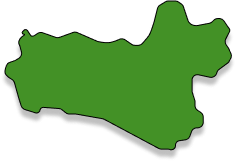
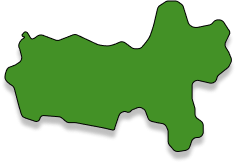
style(changing jawa tengah illustration): change jawa tengah province illustration

Changed region(s): [[0.0, 0.0309, 1.0, 0.9877], [0.6822, 0.0, 0.7119, 0.0309]]

diff --git a/src/components/provinces/JawaTengah.jsx b/src/components/provinces/JawaTengah.jsx
@@ -2,25 +2,16 @@ import React from "react";
 
 const JawaTengah = () => {
   return (
-    <svg
-      xmlns="http://www.w3.org/2000/svg"
-      viewBox="0 0 114 76"
-      fill="none"
-      className="lg:province-hover w-[114px] h-[76px]"
-    >
-      <path
-        d="M10.4151 15.2658L9.7073 15.9736C9.26102 16.4199 9.5771 17.1829 10.2082 17.1829C10.5995 17.1829 10.7907 17.479 10.475 17.7102C10.0995 17.9852 9.56791 18.2898 9.22356 18.6342C8.64308 19.2146 8.49795 19.4404 8.25608 19.8435L7.96799 20.5157C7.69323 21.1568 7.74305 21.8909 8.10191 22.489C8.20421 22.6595 8.28261 22.8432 8.33493 23.035L8.72274 24.457C9.30501 26.592 8.39624 28.8537 6.49865 29.9923C6.21974 30.1596 5.92497 30.299 5.61865 30.4084L3.54845 31.1478C2.98145 31.3503 2.42636 31.6282 2.09668 32.132C1.38705 33.2164 0.84735 35.0696 0.999985 36.2907C1.10584 37.1375 1.98873 38.023 2.99118 38.757C4.40075 39.7891 5.62255 41.1287 6.09013 42.8119L7.77234 48.8679L8.60135 51.4734C9.14304 53.1758 10.4798 54.5078 12.1842 55.0435L16.0882 56.2705C17.0768 56.5812 18.1185 55.9742 18.3356 54.961C18.5195 54.1025 19.3083 53.5111 20.1839 53.5752L26.7452 54.0553C27.9367 54.1425 29.075 54.5833 30.0143 55.3214L30.3276 55.5675C31.3847 56.3981 32.6901 56.8496 34.0345 56.8496H35.5488C35.8964 56.8496 36.2433 56.8798 36.5856 56.9399L48.9126 59.1025C49.5387 59.2123 50.1434 59.421 50.704 59.7206L76.5892 73.5558C77.4594 74.0209 78.4308 74.2643 79.4175 74.2643H81.8291C82.1189 74.2643 82.4056 74.3231 82.672 74.4372C84.0838 75.0424 85.6545 74.0067 85.6545 72.4706V72.3238C85.6545 71.2153 86.4666 70.274 87.5631 70.1116L89.5348 69.8195C91.1702 69.5772 92.5452 68.4663 93.1256 66.9184L93.6297 65.5741C94.066 64.4108 95.2033 63.662 96.4443 63.7211C98.0758 63.7988 99.4411 62.497 99.4411 60.8637V59.2454C99.4411 57.7516 98.6838 56.3596 97.4296 55.5481L97.3852 55.5193C96.1033 54.6899 95.3293 53.2671 95.3293 51.7403V51.1735C95.3293 50.6073 95.2425 50.0444 95.072 49.5044L94.1565 46.6055C93.972 46.021 93.878 45.4117 93.878 44.7987V39.9994C93.878 39.4737 94.0337 38.9597 94.3253 38.5222C94.9313 37.6133 96.0309 37.1666 97.099 37.3955L102.644 38.5836C104.23 38.9235 105.8 37.9449 106.193 36.3711C106.363 35.6937 106.762 35.0962 107.324 34.6811L111.114 31.8798C111.71 31.4396 112.2 30.8733 112.551 30.2214C113.284 28.8615 113.35 27.2405 112.731 25.8255L112.23 24.6822C112.089 24.3596 111.917 24.0514 111.717 23.7619L111.592 23.5819C110.515 22.0263 110.388 20.0024 111.261 18.3237L112.426 16.0834C112.759 15.4421 112.638 14.6586 112.127 14.1475C112.055 14.0751 111.989 13.9961 111.931 13.9115L109.945 11.0085C109.275 10.0288 108.164 9.4431 106.977 9.4431C106.024 9.4431 105.109 9.82195 104.435 10.4963L104.23 10.7007C103.631 11.3001 102.868 11.7086 102.036 11.871C100.861 12.1004 99.1017 12.4394 97.0224 12.8293C93.9264 13.4098 92.3462 11.6199 91.9431 10.6524L89.8685 4.42871C89.4887 3.28933 88.74 2.30905 87.7407 1.64284C86.8535 1.05139 85.8111 0.735779 84.7448 0.735779H82.989C81.885 0.735779 80.8023 1.04039 79.8603 1.61609L79.0434 2.11527C77.7 2.93625 76.7331 4.25236 76.3513 5.77975L75.0122 11.1362C74.6091 12.5068 73.6093 15.635 72.8354 17.1829C72.3018 18.25 70.8947 19.9148 69.6758 21.2423C68.7753 22.2231 67.4918 22.7459 66.1604 22.7459C65.1514 22.7459 64.1659 22.4419 63.3323 21.8736L60.8126 20.1556C59.8646 19.5092 58.6522 19.3915 57.5976 19.8435C56.9526 20.166 55.1789 20.9077 53.2439 21.2947C51.5204 21.6394 48.9013 21.2421 47.4379 20.9233C47.115 20.8529 46.803 20.7448 46.4999 20.613L38.0164 16.9245C36.6117 16.3138 35.0267 16.2634 33.5861 16.7836L29.1322 18.392C27.8321 18.8615 26.4096 18.8676 25.1054 18.4094L21.2819 17.066C19.3577 16.3899 17.3363 16.9965 15.5122 17.9085C14.5447 18.3923 14.061 18.1504 13.8191 17.9085C13.6805 17.7699 12.8718 16.5476 12.1574 15.4503C11.7665 14.85 10.9216 14.7593 10.4151 15.2658Z"
-        fill="#54B530"
-      />
-      <path
-        d="M10.4151 15.2658L9.7073 15.9736C9.26102 16.4199 9.5771 17.1829 10.2082 17.1829C10.5995 17.1829 10.7907 17.479 10.475 17.7102C10.0995 17.9852 9.56791 18.2898 9.22356 18.6342C8.64308 19.2146 8.49795 19.4404 8.25608 19.8435L7.96799 20.5157C7.69323 21.1568 7.74305 21.8909 8.10191 22.489C8.20421 22.6595 8.28261 22.8432 8.33493 23.035L8.72274 24.457C9.30501 26.592 8.39624 28.8537 6.49865 29.9923C6.21974 30.1596 5.92497 30.299 5.61865 30.4084L3.54845 31.1478C2.98145 31.3503 2.42636 31.6282 2.09668 32.132C1.38705 33.2164 0.84735 35.0696 0.999985 36.2907C1.10584 37.1375 1.98873 38.023 2.99118 38.757C4.40075 39.7891 5.62255 41.1287 6.09013 42.8119L7.77234 48.8679L8.60135 51.4734C9.14304 53.1758 10.4798 54.5078 12.1842 55.0435L16.0882 56.2705C17.0768 56.5812 18.1185 55.9742 18.3356 54.961C18.5195 54.1025 19.3083 53.5111 20.1839 53.5752L26.7452 54.0553C27.9367 54.1425 29.075 54.5833 30.0143 55.3214L30.3276 55.5675C31.3847 56.3981 32.6901 56.8496 34.0345 56.8496H35.5488C35.8964 56.8496 36.2433 56.8798 36.5856 56.9399L48.9126 59.1025C49.5387 59.2123 50.1434 59.421 50.704 59.7206L76.5892 73.5558C77.4594 74.0209 78.4308 74.2643 79.4175 74.2643H81.8291C82.1189 74.2643 82.4056 74.3231 82.672 74.4372C84.0838 75.0424 85.6545 74.0067 85.6545 72.4706V72.3238C85.6545 71.2153 86.4666 70.274 87.5631 70.1116L89.5348 69.8195C91.1702 69.5772 92.5452 68.4663 93.1256 66.9184L93.6297 65.5741C94.066 64.4108 95.2033 63.662 96.4443 63.7211C98.0758 63.7988 99.4411 62.497 99.4411 60.8637V59.2454C99.4411 57.7516 98.6838 56.3596 97.4296 55.5481L97.3852 55.5193C96.1033 54.6899 95.3293 53.2671 95.3293 51.7403V51.1735C95.3293 50.6073 95.2425 50.0444 95.072 49.5044L94.1565 46.6055C93.972 46.021 93.878 45.4117 93.878 44.7987V39.9994C93.878 39.4737 94.0337 38.9597 94.3253 38.5222C94.9313 37.6133 96.0309 37.1666 97.099 37.3955L102.644 38.5836C104.23 38.9235 105.8 37.9449 106.193 36.3711C106.363 35.6937 106.762 35.0962 107.324 34.6811L111.114 31.8798C111.71 31.4396 112.2 30.8733 112.551 30.2214C113.284 28.8615 113.35 27.2405 112.731 25.8255L112.23 24.6822C112.089 24.3596 111.917 24.0514 111.717 23.7619L111.592 23.5819C110.515 22.0263 110.388 20.0024 111.261 18.3237L112.426 16.0834C112.759 15.4421 112.638 14.6586 112.127 14.1475C112.055 14.0751 111.989 13.9961 111.931 13.9115L109.945 11.0085C109.275 10.0288 108.164 9.4431 106.977 9.4431C106.024 9.4431 105.109 9.82195 104.435 10.4963L104.23 10.7007C103.631 11.3001 102.868 11.7086 102.036 11.871C100.861 12.1004 99.1017 12.4394 97.0224 12.8293C93.9264 13.4098 92.3462 11.6199 91.9431 10.6524L89.8685 4.42871C89.4887 3.28933 88.74 2.30905 87.7407 1.64284C86.8535 1.05139 85.8111 0.735779 84.7448 0.735779H82.989C81.885 0.735779 80.8023 1.04039 79.8603 1.61609L79.0434 2.11527C77.7 2.93625 76.7331 4.25236 76.3513 5.77975L75.0122 11.1362C74.6091 12.5068 73.6093 15.635 72.8354 17.1829C72.3018 18.25 70.8947 19.9148 69.6758 21.2423C68.7753 22.2231 67.4918 22.7459 66.1604 22.7459C65.1514 22.7459 64.1659 22.4419 63.3323 21.8736L60.8126 20.1556C59.8646 19.5092 58.6522 19.3915 57.5976 19.8435C56.9526 20.166 55.1789 20.9077 53.2439 21.2947C51.5204 21.6394 48.9013 21.2421 47.4379 20.9233C47.115 20.8529 46.803 20.7448 46.4999 20.613L38.0164 16.9245C36.6117 16.3138 35.0267 16.2634 33.5861 16.7836L29.1322 18.392C27.8321 18.8615 26.4096 18.8676 25.1054 18.4094L21.2819 17.066C19.3577 16.3899 17.3363 16.9965 15.5122 17.9085C14.5447 18.3923 14.061 18.1504 13.8191 17.9085C13.6805 17.7699 12.8718 16.5476 12.1574 15.4503C11.7665 14.85 10.9216 14.7593 10.4151 15.2658Z"
+    <svg xmlns="http://www.w3.org/2000/svg" className="lg:province-hover w-[114px] h-[76px]" viewBox="0 0 228 153" fill="none">
+      <path d="M19.8453 32.6742L18.4579 34.1679C17.5791 35.1139 18.25 36.6528 19.5412 36.6528C20.3578 36.6528 20.7799 37.2825 20.1393 37.7888C19.3827 38.3868 18.3067 39.0493 17.6107 39.7986C16.4419 41.0569 16.1497 41.5463 15.6627 42.4201L15.0719 43.9041C14.5213 45.2874 14.6223 46.8451 15.3472 48.1456C15.5566 48.5215 15.7162 48.923 15.8219 49.3401L17.5269 56.0705C18.1591 58.5662 17.1287 61.187 14.9661 62.584L11.8017 64.628C11.4545 64.8523 11.0852 65.04 10.6994 65.1883L5.3428 67.2479C4.75883 67.4725 4.19668 67.7734 3.80795 68.2637C2.12379 70.3875 0.706735 75.0965 1.05232 78.0729C1.34902 80.6282 4.67708 83.3457 7.4663 85.114C8.92295 86.0374 10.0655 87.4189 10.4964 89.0889L14.6887 105.337L17.2155 113.886C17.7686 115.758 19.1976 117.244 21.0464 117.869L31.1606 121.291C33.2714 122.006 35.5289 120.701 35.9639 118.515C36.3291 116.681 38.0091 115.409 39.874 115.556L54.6442 116.72C55.8975 116.818 57.0881 117.308 58.0479 118.12L61.7123 121.22C62.7955 122.136 64.1684 122.639 65.5872 122.639H71.1074C71.4811 122.639 71.8539 122.674 72.221 122.743L99.4288 127.882L108.481 130.009C109.66 130.286 110.79 129.392 110.79 128.181C110.79 127.983 110.821 127.786 110.882 127.598L113.81 118.629L114.93 115.616C115.501 114.079 116.675 112.843 118.181 112.195L119.241 111.738C120.262 111.299 121.428 111.35 122.407 111.876C123.866 112.662 125.672 112.363 126.799 111.148L127.229 110.686C127.674 110.207 128.219 109.832 128.826 109.587L133.072 107.872C134.882 107.142 136.934 107.337 138.574 108.396L139.318 108.877C140.405 109.579 141.236 110.614 141.687 111.827L143.891 117.76C144.595 119.655 146.207 121.069 148.178 121.519L153.074 122.639L158.041 123.508C159.975 123.847 161.621 125.11 162.448 126.891L163.59 129.35C163.958 130.142 164.148 131.004 164.148 131.877V141.31C164.148 142.76 164.673 144.16 165.625 145.253L169.322 149.494C170.681 151.053 172.747 151.802 174.79 151.476L181.114 150.468C183.295 150.12 185.109 148.602 185.836 146.516L187.638 141.343C188.468 138.958 190.772 137.408 193.294 137.538C196.542 137.704 199.266 135.116 199.266 131.863V125.772C199.266 123.809 198.306 121.97 196.696 120.848L193.558 118.662C191.947 117.54 190.987 115.702 190.987 113.739V109.344C190.987 108.773 190.905 108.204 190.744 107.656L188.308 99.3478C188.147 98.7993 188.065 98.2306 188.065 97.659V85.9427C188.065 84.9111 188.353 83.8999 188.896 83.0229C190.146 81.0038 192.543 80.0049 194.858 80.5387L205.604 83.0178C208.829 83.7619 212.048 81.7531 212.797 78.5285L212.917 78.0119C213.223 76.6933 213.966 75.517 215.025 74.6741L223.554 67.8879C224.237 67.3442 224.793 66.6579 225.184 65.8769L226.786 62.6744C227.558 61.1311 227.628 59.3302 226.978 57.7316L224.801 52.3746C224.661 52.0307 224.49 51.7005 224.289 51.3882L222.026 47.8693C220.897 46.1127 220.762 43.895 221.67 42.0144L225.441 34.2072C226.103 32.8364 225.857 31.1998 224.821 30.0844C224.668 29.9197 224.53 29.7413 224.41 29.5515L220.028 22.6567C218.927 20.9243 217.016 19.875 214.964 19.875H214.057C212.389 19.875 210.797 20.5694 209.661 21.7916L208.344 23.2093C207.507 24.1105 206.415 24.7326 205.212 24.9866C202.877 25.4792 199.031 26.2796 194.396 27.2153C188.162 28.4736 184.981 24.5937 184.169 22.4965L179.408 7.11935C179.021 5.87036 178.237 4.78187 177.175 4.0195L174.536 2.12552C173.516 1.39365 172.293 1 171.037 1H164.537C163.365 1 162.219 1.34331 161.239 1.98753L155.978 5.44884C154.692 6.29528 153.78 7.60401 153.432 9.10413L150.078 23.5451C149.266 26.5162 147.253 33.2972 145.695 36.6528C144.449 39.3364 140.835 43.7638 138.192 46.7704C137.091 48.0232 135.494 48.7118 133.826 48.7118H131.102C129.825 48.7118 128.581 48.3043 127.552 47.5486L121.274 42.9405C119.514 41.6489 117.192 41.4148 115.21 42.3293L115.013 42.4201C113.714 43.1192 110.143 44.7271 106.247 45.566C102.586 46.3542 96.9192 45.3526 94.0933 44.6489C93.7537 44.5643 93.4252 44.4427 93.1083 44.2944L73.5071 35.1195C72.0222 34.4245 70.3175 34.3674 68.7894 34.9614L55.7943 40.0135C54.4135 40.5502 52.883 40.5573 51.4975 40.0331L39.0975 35.3428C36.9724 34.539 34.5931 35.0276 32.816 36.4433C31.9047 37.1694 30.9764 37.8471 30.2731 38.2257C28.325 39.2743 27.351 38.75 26.864 38.2257C26.5915 37.9324 25.0329 35.3997 23.6206 33.0664C22.8032 31.716 20.9195 31.5177 19.8453 32.6742Z"
+        fill="#54B530" />
+      <path d="M19.8453 32.6742L18.4579 34.1679C17.5791 35.1139 18.25 36.6528 19.5412 36.6528C20.3578 36.6528 20.7799 37.2825 20.1393 37.7888C19.3827 38.3868 18.3067 39.0493 17.6107 39.7986C16.4419 41.0569 16.1497 41.5463 15.6627 42.4201L15.0719 43.9041C14.5213 45.2874 14.6223 46.8451 15.3472 48.1456C15.5566 48.5215 15.7162 48.923 15.8219 49.3401L17.5269 56.0705C18.1591 58.5662 17.1287 61.187 14.9661 62.584L11.8017 64.628C11.4545 64.8523 11.0852 65.04 10.6994 65.1883L5.3428 67.2479C4.75883 67.4725 4.19668 67.7734 3.80795 68.2637C2.12379 70.3875 0.706735 75.0965 1.05232 78.0729C1.34902 80.6282 4.67708 83.3457 7.4663 85.114C8.92295 86.0374 10.0655 87.4189 10.4964 89.0889L14.6887 105.337L17.2155 113.886C17.7686 115.758 19.1976 117.244 21.0464 117.869L31.1606 121.291C33.2714 122.006 35.5289 120.701 35.9639 118.515C36.3291 116.681 38.0091 115.409 39.874 115.556L54.6442 116.72C55.8975 116.818 57.0881 117.308 58.0479 118.12L61.7123 121.22C62.7955 122.136 64.1684 122.639 65.5872 122.639H71.1074C71.4811 122.639 71.8539 122.674 72.221 122.743L99.4288 127.882L108.481 130.009C109.66 130.286 110.79 129.392 110.79 128.181C110.79 127.983 110.821 127.786 110.882 127.598L113.81 118.629L114.93 115.616C115.501 114.079 116.675 112.843 118.181 112.195L119.241 111.738C120.262 111.299 121.428 111.35 122.407 111.876C123.866 112.662 125.672 112.363 126.799 111.148L127.229 110.686C127.674 110.207 128.219 109.832 128.826 109.587L133.072 107.872C134.882 107.142 136.934 107.337 138.574 108.396L139.318 108.877C140.405 109.579 141.236 110.614 141.687 111.827L143.891 117.76C144.595 119.655 146.207 121.069 148.178 121.519L153.074 122.639L158.041 123.508C159.975 123.847 161.621 125.11 162.448 126.891L163.59 129.35C163.958 130.142 164.148 131.004 164.148 131.877V141.31C164.148 142.76 164.673 144.16 165.625 145.253L169.322 149.494C170.681 151.053 172.747 151.802 174.79 151.476L181.114 150.468C183.295 150.12 185.109 148.602 185.836 146.516L187.638 141.343C188.468 138.958 190.772 137.408 193.294 137.538C196.542 137.704 199.266 135.116 199.266 131.863V125.772C199.266 123.809 198.306 121.97 196.696 120.848L193.558 118.662C191.947 117.54 190.987 115.702 190.987 113.739V109.344C190.987 108.773 190.905 108.204 190.744 107.656L188.308 99.3478C188.147 98.7993 188.065 98.2306 188.065 97.659V85.9427C188.065 84.9111 188.353 83.8999 188.896 83.0229C190.146 81.0038 192.543 80.0049 194.858 80.5387L205.604 83.0178C208.829 83.7619 212.048 81.7531 212.797 78.5285L212.917 78.0119C213.223 76.6933 213.966 75.517 215.025 74.6741L223.554 67.8879C224.237 67.3442 224.793 66.6579 225.184 65.8769L226.786 62.6744C227.558 61.1311 227.628 59.3302 226.978 57.7316L224.801 52.3746C224.661 52.0307 224.49 51.7005 224.289 51.3882L222.026 47.8693C220.897 46.1127 220.762 43.895 221.67 42.0144L225.441 34.2072C226.103 32.8364 225.857 31.1998 224.821 30.0844C224.668 29.9197 224.53 29.7413 224.41 29.5515L220.028 22.6567C218.927 20.9243 217.016 19.875 214.964 19.875H214.057C212.389 19.875 210.797 20.5694 209.661 21.7916L208.344 23.2093C207.507 24.1105 206.415 24.7326 205.212 24.9866C202.877 25.4792 199.031 26.2796 194.396 27.2153C188.162 28.4736 184.981 24.5937 184.169 22.4965L179.408 7.11935C179.021 5.87036 178.237 4.78187 177.175 4.0195L174.536 2.12552C173.516 1.39365 172.293 1 171.037 1H164.537C163.365 1 162.219 1.34331 161.239 1.98753L155.978 5.44884C154.692 6.29528 153.78 7.60401 153.432 9.10413L150.078 23.5451C149.266 26.5162 147.253 33.2972 145.695 36.6528C144.449 39.3364 140.835 43.7638 138.192 46.7704C137.091 48.0232 135.494 48.7118 133.826 48.7118H131.102C129.825 48.7118 128.581 48.3043 127.552 47.5486L121.274 42.9405C119.514 41.6489 117.192 41.4148 115.21 42.3293L115.013 42.4201C113.714 43.1192 110.143 44.7271 106.247 45.566C102.586 46.3542 96.9192 45.3526 94.0933 44.6489C93.7537 44.5643 93.4252 44.4427 93.1083 44.2944L73.5071 35.1195C72.0222 34.4245 70.3175 34.3674 68.7894 34.9614L55.7943 40.0135C54.4135 40.5502 52.883 40.5573 51.4975 40.0331L39.0975 35.3428C36.9724 34.539 34.5931 35.0276 32.816 36.4433C31.9047 37.1694 30.9764 37.8471 30.2731 38.2257C28.325 39.2743 27.351 38.75 26.864 38.2257C26.5915 37.9324 25.0329 35.3997 23.6206 33.0664C22.8032 31.716 20.9195 31.5177 19.8453 32.6742Z"
         fill="black"
-        fillOpacity="0.2"
-      />
+        fillOpacity="0.2" />
       <path
-        d="M10.4151 15.2658L9.7073 15.9736C9.26102 16.4199 9.5771 17.1829 10.2082 17.1829C10.5995 17.1829 10.7907 17.479 10.475 17.7102C10.0995 17.9852 9.56791 18.2898 9.22356 18.6342C8.64308 19.2146 8.49795 19.4404 8.25608 19.8435L7.96799 20.5157C7.69323 21.1568 7.74305 21.8909 8.10191 22.489C8.20421 22.6595 8.28261 22.8432 8.33493 23.035L8.72274 24.457C9.30501 26.592 8.39624 28.8537 6.49865 29.9923C6.21974 30.1596 5.92497 30.299 5.61865 30.4084L3.54845 31.1478C2.98145 31.3503 2.42636 31.6282 2.09668 32.132C1.38705 33.2164 0.84735 35.0696 0.999985 36.2907C1.10584 37.1375 1.98873 38.023 2.99118 38.757C4.40075 39.7891 5.62255 41.1287 6.09013 42.8119L7.77234 48.8679L8.60135 51.4734C9.14304 53.1758 10.4798 54.5078 12.1842 55.0435L16.0882 56.2705C17.0768 56.5812 18.1185 55.9742 18.3356 54.961C18.5195 54.1025 19.3083 53.5111 20.1839 53.5752L26.7452 54.0553C27.9367 54.1425 29.075 54.5833 30.0143 55.3214L30.3276 55.5675C31.3847 56.3981 32.6901 56.8496 34.0345 56.8496H35.5488C35.8964 56.8496 36.2433 56.8798 36.5856 56.9399L48.9126 59.1025C49.5387 59.2123 50.1434 59.421 50.704 59.7206L76.5892 73.5558C77.4594 74.0209 78.4308 74.2643 79.4175 74.2643H81.8291C82.1189 74.2643 82.4056 74.3231 82.672 74.4372C84.0838 75.0424 85.6545 74.0067 85.6545 72.4706V72.3238C85.6545 71.2153 86.4666 70.274 87.5631 70.1116L89.5348 69.8195C91.1702 69.5772 92.5452 68.4663 93.1256 66.9184L93.6297 65.5741C94.066 64.4108 95.2033 63.662 96.4443 63.7211C98.0758 63.7988 99.4411 62.497 99.4411 60.8637V59.2454C99.4411 57.7516 98.6838 56.3596 97.4296 55.5481L97.3852 55.5193C96.1033 54.6899 95.3293 53.2671 95.3293 51.7403V51.1735C95.3293 50.6073 95.2425 50.0444 95.072 49.5044L94.1565 46.6055C93.972 46.021 93.878 45.4117 93.878 44.7987V39.9994C93.878 39.4737 94.0337 38.9597 94.3253 38.5222C94.9313 37.6133 96.0309 37.1666 97.099 37.3955L102.644 38.5836C104.23 38.9235 105.8 37.9449 106.193 36.3711C106.363 35.6937 106.762 35.0962 107.324 34.6811L111.114 31.8798C111.71 31.4396 112.2 30.8733 112.551 30.2214C113.284 28.8615 113.35 27.2405 112.731 25.8255L112.23 24.6822C112.089 24.3596 111.917 24.0514 111.717 23.7619L111.592 23.5819C110.515 22.0263 110.388 20.0024 111.261 18.3237L112.426 16.0834C112.759 15.4421 112.638 14.6586 112.127 14.1475C112.055 14.0751 111.989 13.9961 111.931 13.9115L109.945 11.0085C109.275 10.0288 108.164 9.4431 106.977 9.4431C106.024 9.4431 105.109 9.82195 104.435 10.4963L104.23 10.7007C103.631 11.3001 102.868 11.7086 102.036 11.871C100.861 12.1004 99.1017 12.4394 97.0224 12.8293C93.9264 13.4098 92.3462 11.6199 91.9431 10.6524L89.8685 4.42871C89.4887 3.28933 88.74 2.30905 87.7407 1.64284C86.8535 1.05139 85.8111 0.735779 84.7448 0.735779H82.989C81.885 0.735779 80.8023 1.04039 79.8603 1.61609L79.0434 2.11527C77.7 2.93625 76.7331 4.25236 76.3513 5.77975L75.0122 11.1362C74.6091 12.5068 73.6093 15.635 72.8354 17.1829C72.3018 18.25 70.8947 19.9148 69.6758 21.2423C68.7753 22.2231 67.4918 22.7459 66.1604 22.7459C65.1514 22.7459 64.1659 22.4419 63.3323 21.8736L60.8126 20.1556C59.8646 19.5092 58.6522 19.3915 57.5976 19.8435C56.9526 20.166 55.1789 20.9077 53.2439 21.2947C51.5204 21.6394 48.9013 21.2421 47.4379 20.9233C47.115 20.8529 46.803 20.7448 46.4999 20.613L38.0164 16.9245C36.6117 16.3138 35.0267 16.2634 33.5861 16.7836L29.1322 18.392C27.8321 18.8615 26.4096 18.8676 25.1054 18.4094L21.2819 17.066C19.3577 16.3899 17.3363 16.9965 15.5122 17.9085C14.5447 18.3923 14.061 18.1504 13.8191 17.9085C13.6805 17.7699 12.8718 16.5476 12.1574 15.4503C11.7665 14.85 10.9216 14.7593 10.4151 15.2658Z"
+        d="M19.8453 32.6742L18.4579 34.1679C17.5791 35.1139 18.25 36.6528 19.5412 36.6528C20.3578 36.6528 20.7799 37.2825 20.1393 37.7888C19.3827 38.3868 18.3067 39.0493 17.6107 39.7986C16.4419 41.0569 16.1497 41.5463 15.6627 42.4201L15.0719 43.9041C14.5213 45.2874 14.6223 46.8451 15.3472 48.1456C15.5566 48.5215 15.7162 48.923 15.8219 49.3401L17.5269 56.0705C18.1591 58.5662 17.1287 61.187 14.9661 62.584L11.8017 64.628C11.4545 64.8523 11.0852 65.04 10.6994 65.1883L5.3428 67.2479C4.75883 67.4725 4.19668 67.7734 3.80795 68.2637C2.12379 70.3875 0.706735 75.0965 1.05232 78.0729C1.34902 80.6282 4.67708 83.3457 7.4663 85.114C8.92295 86.0374 10.0655 87.4189 10.4964 89.0889L14.6887 105.337L17.2155 113.886C17.7686 115.758 19.1976 117.244 21.0464 117.869L31.1606 121.291C33.2714 122.006 35.5289 120.701 35.9639 118.515C36.3291 116.681 38.0091 115.409 39.874 115.556L54.6442 116.72C55.8975 116.818 57.0881 117.308 58.0479 118.12L61.7123 121.22C62.7955 122.136 64.1684 122.639 65.5872 122.639H71.1074C71.4811 122.639 71.8539 122.674 72.221 122.743L99.4288 127.882L108.481 130.009C109.66 130.286 110.79 129.392 110.79 128.181C110.79 127.983 110.821 127.786 110.882 127.598L113.81 118.629L114.93 115.616C115.501 114.079 116.675 112.843 118.181 112.195L119.241 111.738C120.262 111.299 121.428 111.35 122.407 111.876C123.866 112.662 125.672 112.363 126.799 111.148L127.229 110.686C127.674 110.207 128.219 109.832 128.826 109.587L133.072 107.872C134.882 107.142 136.934 107.337 138.574 108.396L139.318 108.877C140.405 109.579 141.236 110.614 141.687 111.827L143.891 117.76C144.595 119.655 146.207 121.069 148.178 121.519L153.074 122.639L158.041 123.508C159.975 123.847 161.621 125.11 162.448 126.891L163.59 129.35C163.958 130.142 164.148 131.004 164.148 131.877V141.31C164.148 142.76 164.673 144.16 165.625 145.253L169.322 149.494C170.681 151.053 172.747 151.802 174.79 151.476L181.114 150.468C183.295 150.12 185.109 148.602 185.836 146.516L187.638 141.343C188.468 138.958 190.772 137.408 193.294 137.538C196.542 137.704 199.266 135.116 199.266 131.863V125.772C199.266 123.809 198.306 121.97 196.696 120.848L193.558 118.662C191.947 117.54 190.987 115.702 190.987 113.739V109.344C190.987 108.773 190.905 108.204 190.744 107.656L188.308 99.3478C188.147 98.7993 188.065 98.2306 188.065 97.659V85.9427C188.065 84.9111 188.353 83.8999 188.896 83.0229C190.146 81.0038 192.543 80.0049 194.858 80.5387L205.604 83.0178C208.829 83.7619 212.048 81.7531 212.797 78.5285L212.917 78.0119C213.223 76.6933 213.966 75.517 215.025 74.6741L223.554 67.8879C224.237 67.3442 224.793 66.6579 225.184 65.8769L226.786 62.6744C227.558 61.1311 227.628 59.3302 226.978 57.7316L224.801 52.3746C224.661 52.0307 224.49 51.7005 224.289 51.3882L222.026 47.8693C220.897 46.1127 220.762 43.895 221.67 42.0144L225.441 34.2072C226.103 32.8364 225.857 31.1998 224.821 30.0844C224.668 29.9197 224.53 29.7413 224.41 29.5515L220.028 22.6567C218.927 20.9243 217.016 19.875 214.964 19.875H214.057C212.389 19.875 210.797 20.5694 209.661 21.7916L208.344 23.2093C207.507 24.1105 206.415 24.7326 205.212 24.9866C202.877 25.4792 199.031 26.2796 194.396 27.2153C188.162 28.4736 184.981 24.5937 184.169 22.4965L179.408 7.11935C179.021 5.87036 178.237 4.78187 177.175 4.0195L174.536 2.12552C173.516 1.39365 172.293 1 171.037 1H164.537C163.365 1 162.219 1.34331 161.239 1.98753L155.978 5.44884C154.692 6.29528 153.78 7.60401 153.432 9.10413L150.078 23.5451C149.266 26.5162 147.253 33.2972 145.695 36.6528C144.449 39.3364 140.835 43.7638 138.192 46.7704C137.091 48.0232 135.494 48.7118 133.826 48.7118H131.102C129.825 48.7118 128.581 48.3043 127.552 47.5486L121.274 42.9405C119.514 41.6489 117.192 41.4148 115.21 42.3293L115.013 42.4201C113.714 43.1192 110.143 44.7271 106.247 45.566C102.586 46.3542 96.9192 45.3526 94.0933 44.6489C93.7537 44.5643 93.4252 44.4427 93.1083 44.2944L73.5071 35.1195C72.0222 34.4245 70.3175 34.3674 68.7894 34.9614L55.7943 40.0135C54.4135 40.5502 52.883 40.5573 51.4975 40.0331L39.0975 35.3428C36.9724 34.539 34.5931 35.0276 32.816 36.4433C31.9047 37.1694 30.9764 37.8471 30.2731 38.2257C28.325 39.2743 27.351 38.75 26.864 38.2257C26.5915 37.9324 25.0329 35.3997 23.6206 33.0664C22.8032 31.716 20.9195 31.5177 19.8453 32.6742Z"
         stroke="black"
-      />
+        strokeWidth={2} />
     </svg>
   );
 };

diff --git a/src/components/Province.jsx b/src/components/Province.jsx
@@ -157,7 +157,7 @@ const Province = () => {
               aria-label="jawatengah"
               onMouseEnter={() => onJawaTengahHoverHandler(true)}
               onMouseLeave={() => onJawaTengahHoverHandler(false)}
-              className="mb-[-1.5rem] transition-all lg:group-hover:mb-[1px]"
+              className="mb-[-1.6rem] transition-all lg:group-hover:mb-[1px]"
             >
               <JawaTengah />
             </Link>
@@ -166,7 +166,7 @@ const Province = () => {
               aria-label="yogjakarta"
               onMouseEnter={() => onYogjakartaHoverHandler(true)}
               onMouseLeave={() => onYogjakartaHoverHandler(false)}
-              className="ml-[1.5rem]"
+              className="ml-[1.6rem] z-10"
             >
               <Yogyakarta />
             </Link>
